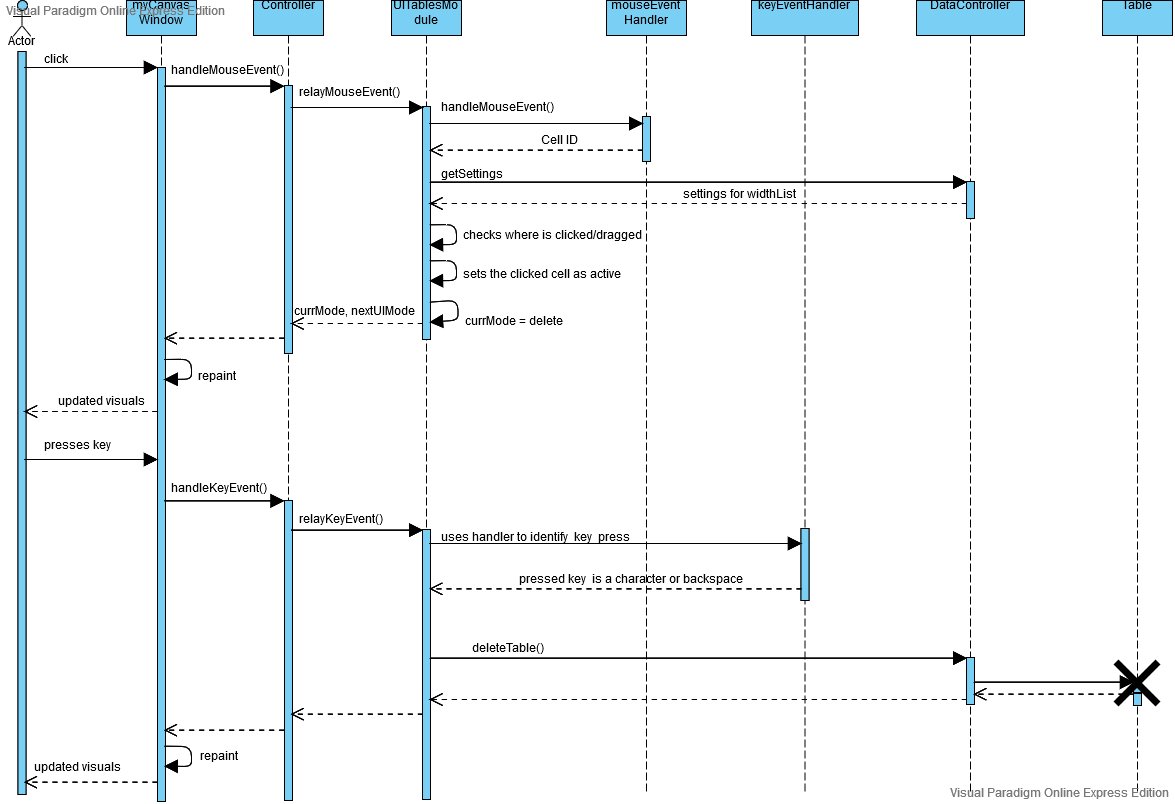
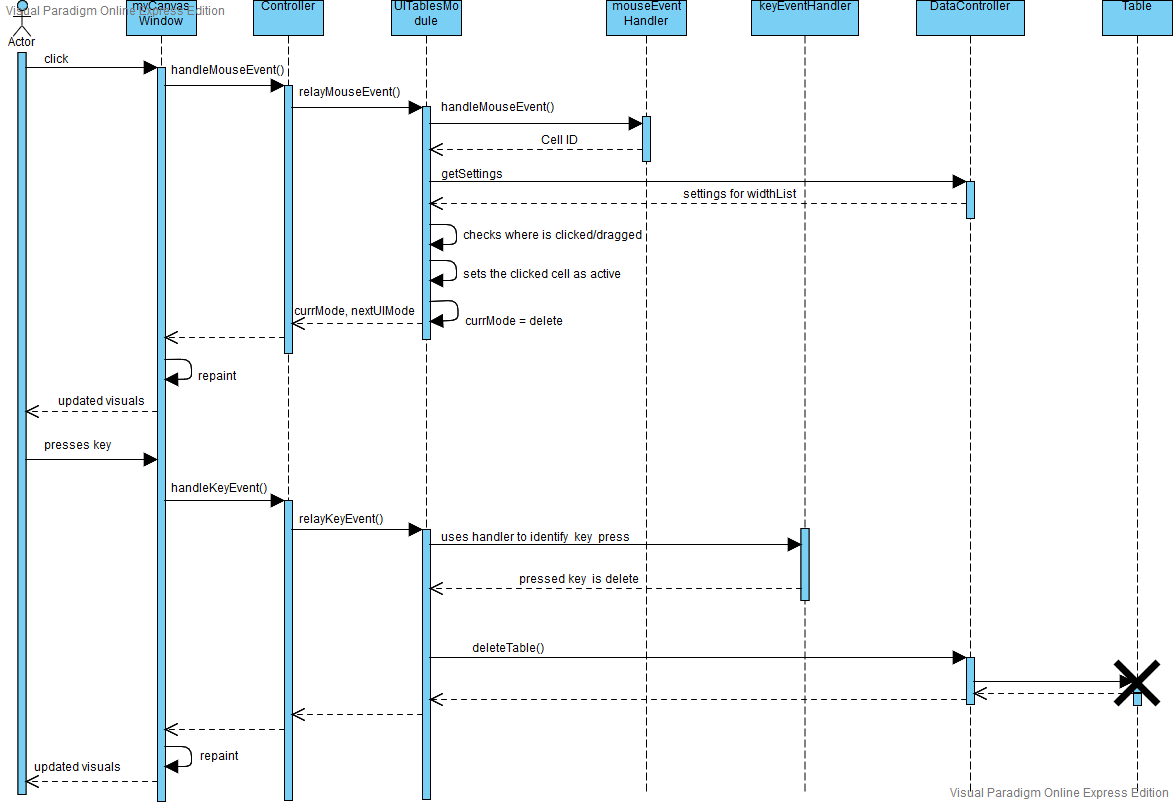
finished diagrams and fixed escape to restore table name

diff --git a/src/UserInterfaceElements/UITablesModule.java b/src/UserInterfaceElements/UITablesModule.java
@@ -184,6 +184,14 @@ public class UITablesModule extends UISuperClass{
             data.getTableList().get(activeCell[0]).setTableName(tempText);
 
         }
+        //ESCAPE
+        if(keyCode == 27){
+        	if (eventHandler.isEscape(keyCode)) {
+                currMode = "normal";
+                tempText = "default_text";
+        		}        
+        	}
+
         List<String> result = new ArrayList<>();
         result.add(currMode);
         result.add("table");
@@ -220,11 +228,5 @@ public class UITablesModule extends UISuperClass{
     
     @Override
     protected void handleNonModeDependantKeys (int id, int keyCode, char keyChar, dataController data){
-    	//keyEventHandler eventHandler = new keyEventHandler();
-    	//if (eventHandler.isEscape(keyCode)) {
-            //currMode = "normal";
-            //tempText = "default_text";
-       //}
     }
-
 }
